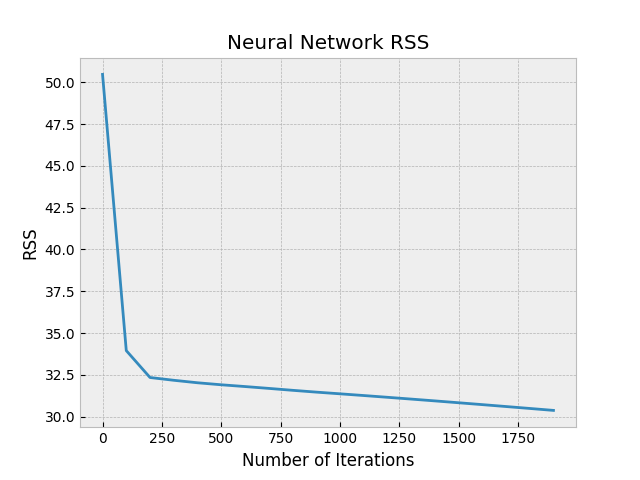
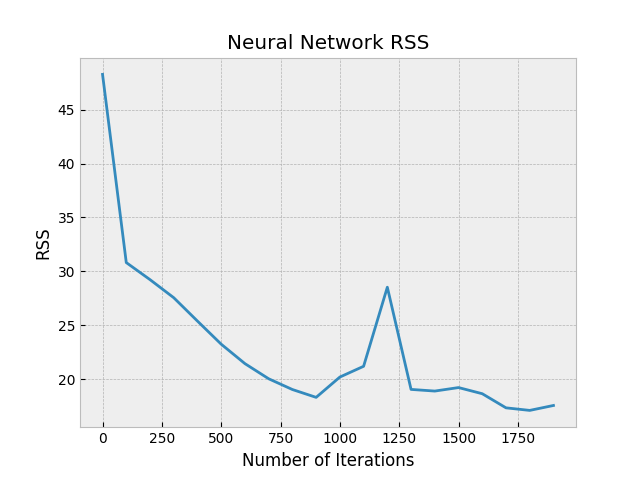
variable actv func

diff --git a/src/neural_net.py b/src/neural_net.py
@@ -1,11 +1,12 @@
 class Neuron:
-    def __init__(self, index, is_bias=False):
+    def __init__(self, index, actv_func, is_bias=False):
         self.parents = []
         self.children = []
         self.index = index
         self.bias = is_bias
         self.input = None
         self.gradient = 0
+        self.actv_func = actv_func
         if is_bias:
             self.output = 1
         else:
@@ -17,7 +18,7 @@ class NeuralNet:
         self.weights = weights
         self.actv_func = actv_func
         self.biases = bias_nodes
-        self.neurons = [Neuron(i) if i not in self.biases else Neuron(i, is_bias=True) for i in range(1,num_neurons+1)]
+        self.neurons = [Neuron(i,self.actv_func) if i not in self.biases else Neuron(i,self.actv_func,is_bias=True) for i in range(1,num_neurons+1)]
         self.root_neuron = None
         self.data = data
         self.set_node_relations()
@@ -36,7 +37,11 @@ class NeuralNet:
             neuron.parents.append(self.get_neuron(nodes[0]))
     
     def set_neuron_output(self, neuron):
-        neuron.output = self.actv_func(neuron.input)
+        neuron.output = neuron.actv_func(neuron.input)
+    
+    def change_neuron_actv_func(self, neuron_index, f):
+        neuron = self.get_neuron(neuron_index)
+        neuron.actv_func = f
 
     def clear_net(self):
         for neuron in self.neurons:
@@ -86,7 +91,7 @@ class NeuralNet:
             else:
                 for child in neuron.children:
                     edge_weight = self.get_weight(child, neuron)
-                    neuron.gradient = child.gradient*self.f_prime(child.input)*edge_weight #maybe add to val??
+                    neuron.gradient = child.gradient*self.f_prime(child.actv_func, child.input)*edge_weight #maybe add to val??
 
     def get_weight(self, neuron1, neuron2):
         for node_pair in self.weights.keys():
@@ -107,12 +112,12 @@ class NeuralNet:
             for point in self.data:
                 self.set_neuron_gradients(point)
                 neurons = [self.get_neuron(x) for x in node_pair]
-                gradients[node_pair] += neurons[1].gradient*self.f_prime(neurons[1].input)*neurons[0].output
+                gradients[node_pair] += neurons[1].gradient*self.f_prime(neurons[1].actv_func, neurons[1].input)*neurons[0].output
         return gradients
     
-    def f_prime(self, x):
+    def f_prime(self, actv_func, x):
         delta = 0.000000001
-        return (self.actv_func(x+delta/2) - self.actv_func(x-delta/2))/delta
+        return (actv_func(x+delta/2) - actv_func(x-delta/2))/delta
 
     def rss(self):
         rss = 0

diff --git a/tests/test_neural_net.py b/tests/test_neural_net.py
@@ -24,6 +24,7 @@ for edge in weights:
   weights[edge] = ((-1)**(j+k))*min(j,k)/max(j,k)
 
 net = NeuralNet(weights, data, lambda x: max(0,x), 9, [2,5,8])
+net.change_neuron_actv_func(9, lambda x: x)
 
 print('initial weights\n', net.weights, '\n')
 net.gradient_descent(1)
@@ -39,7 +40,7 @@ plt.scatter([-5,-4,-3,-2,-1,1,2,3,4,5,6,7],[-3,-1,1,2,-1,-1,1,2,3,4,2,0], label=
 plt.plot(inputs, outputs, label="Initial Regression")
 
 
-RSS_vals = net.gradient_descent(2000, return_rss=True)
+RSS_vals = net.gradient_descent(2000, alpha=0.001, return_rss=True)
 
 outputs = [net.predict(i/100) for i in range(800)]
 
@@ -47,7 +48,6 @@ plt.plot(inputs, outputs, label="Final Regression")
 plt.xlabel('Inputs')
 plt.ylabel('Outputs')
 plt.legend()
-
 plt.savefig('NN_9_Neuron_Regression.png')
 
 plt.clf()
